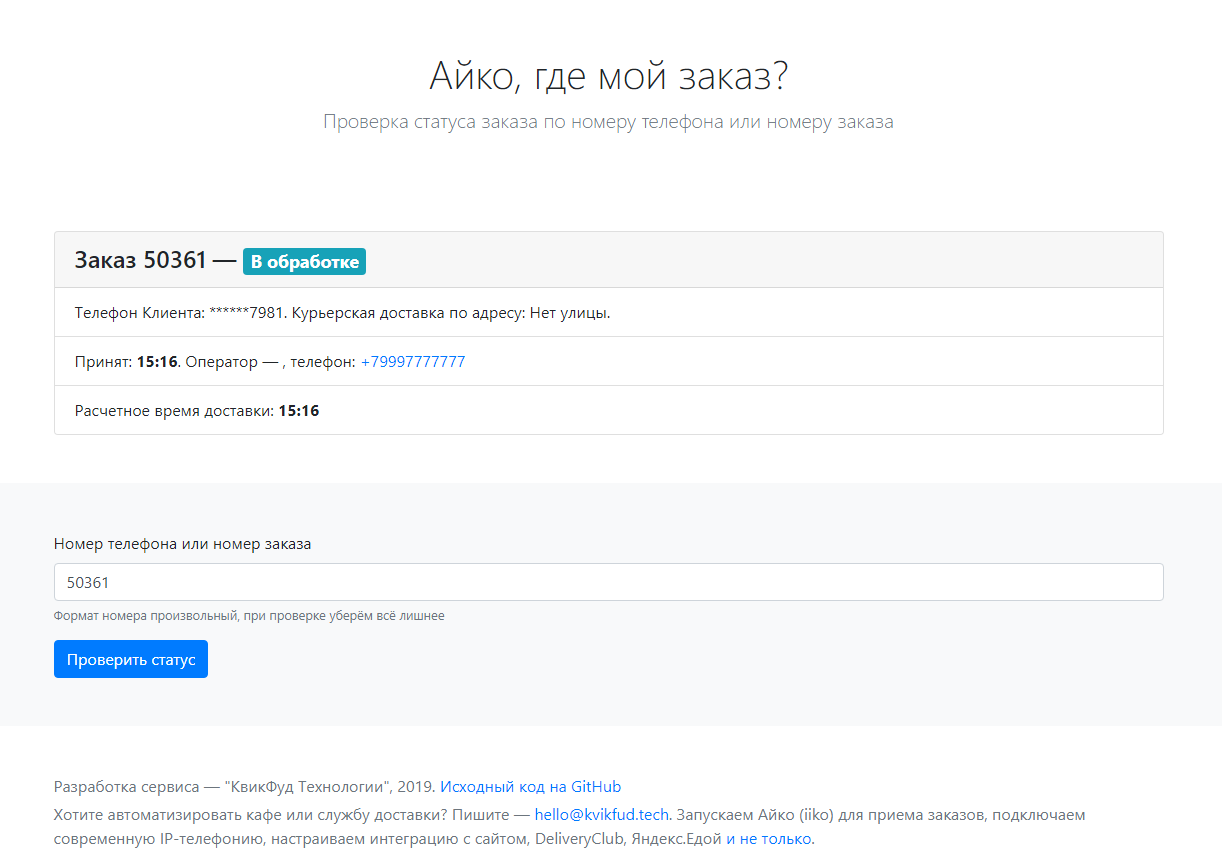
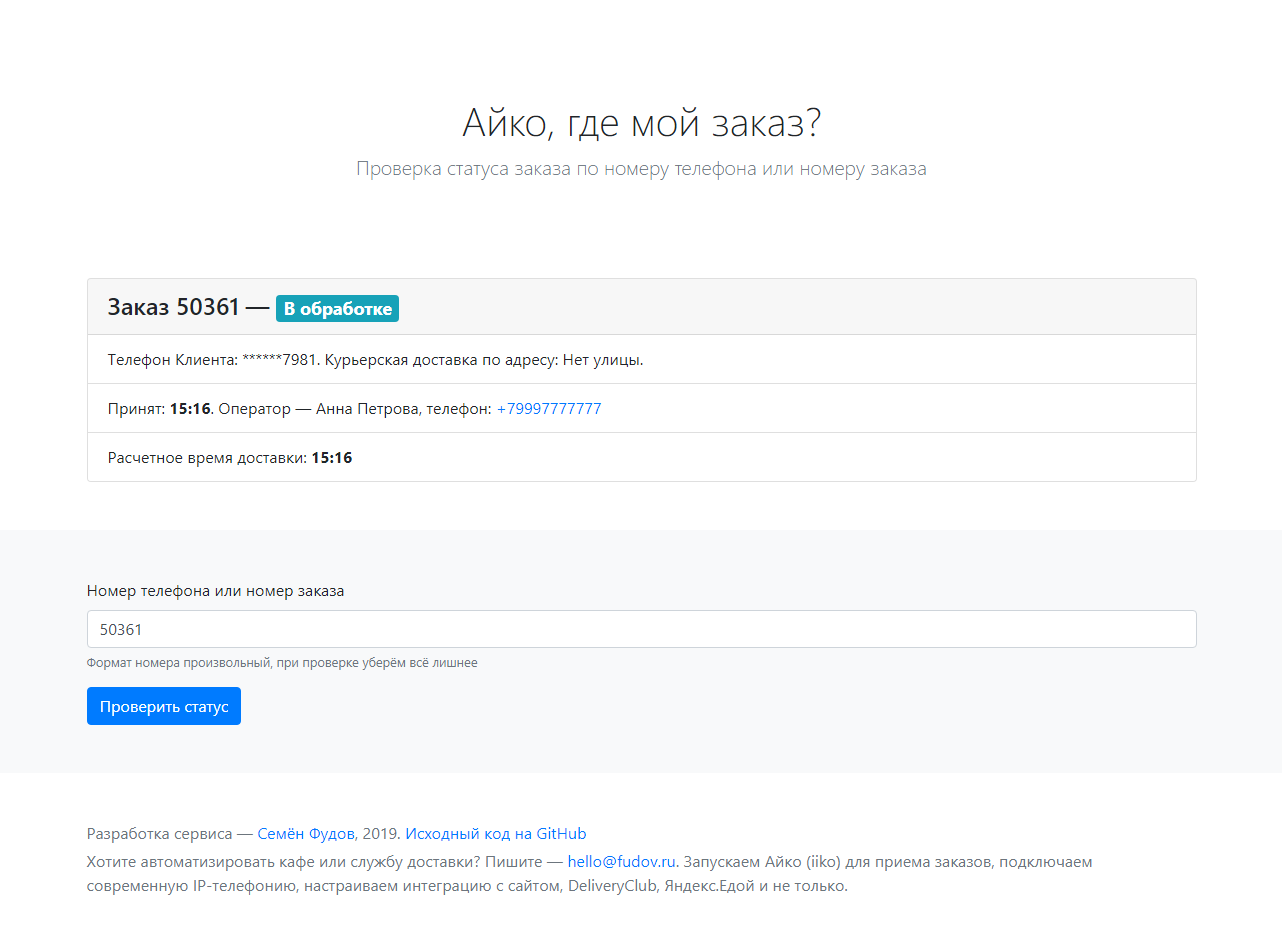
Migrate to fudov.ru

diff --git a/iikoStatus/iikostatus.php b/iikoStatus/iikostatus.php
@@ -2,7 +2,7 @@
   /*
    * Проверка статуса заказа Айко по номеру телефона клиента или по номеру заказа
    *
-   * Пример разработан в "КвикФуд Технологиях": https://kvikfud.tech/
+   * Пример разработан Семёном Фудовым: https://fudov.ru/
    *
    * Больше подробностей в документации:
    * iikoBiz API: https://docs.google.com/document/d/1pRQNIn46GH1LVqzBUY5TdIIUuSCOl-A_xeCBbogd2bE/
@@ -180,7 +180,7 @@
             'К сожалению, <strong>не удалось найти ни одного заказа</strong> по указанному номеру.</p>' .
             '<p class="card-text">Если мы ошиблись&nbsp;&mdash; просим созвониться с оператором по телефону ' .
             '<nobr><a href="tel:+79997777777">+7 (999) 777-77-77</a></nobr>.' . 
-            '<p class="card-text">Иначе предлагаем оформить новый заказ <a href="https://kvikfud.tech">здесь</a>!</p>' . 
+            '<p class="card-text">Иначе предлагаем оформить новый заказ <a href="https://fudov.ru">здесь</a>!</p>' . 
             '</div></div>';
           }
         ?>
@@ -204,8 +204,8 @@
     
     <footer class="text-muted">
       <div class="container">
-        <p>Разработка сервиса&nbsp;&mdash; &quot;КвикФуд Технологии&quot;, 2019. <a href="https://github.com/fisher85/iiko-api/tree/master/iikoStatus">Исходный код на GitHub</a></p>
-        <p>Хотите автоматизировать кафе или службу доставки? Пишите&nbsp;&mdash; <a href="mailto:hello@kvikfud.tech">hello@kvikfud.tech</a>. Запускаем Айко (iiko) для приема заказов, подключаем современную IP-телефонию, настраиваем интеграцию с сайтом, DeliveryClub, Яндекс.Едой <a href="https://kvikfud.tech">и не только</a>.</p>
+        <p>Разработка сервиса&nbsp;&mdash; <a href="https://fudov.ru">Семён Фудов</a>, 2019. <a href="https://github.com/fisher85/iiko-api/tree/master/iikoStatus">Исходный код на GitHub</a></p>
+        <p>Хотите автоматизировать кафе или службу доставки? Пишите&nbsp;&mdash; <a href="mailto:hello@fudov.ru">hello@fudov.ru</a>. Запускаем Айко (iiko) для приема заказов, подключаем современную IP-телефонию, настраиваем интеграцию с сайтом, DeliveryClub, Яндекс.Едой и не только.</p>
       </div>
     </footer>
     

diff --git a/iikoBoard/iikoboard.php b/iikoBoard/iikoboard.php
@@ -2,7 +2,7 @@
   /*
    * Монитор загрузки производств
    *
-   * Пример разработан в "КвикФуд Технологиях": https://kvikfud.tech/
+   * Пример разработан Семёном Фудовым: https://fudov.ru/
    *
    * Больше подробностей в документации:
    * iikoBiz API: https://docs.google.com/document/d/1pRQNIn46GH1LVqzBUY5TdIIUuSCOl-A_xeCBbogd2bE/

diff --git a/iikoMenu/iikomenu.php b/iikoMenu/iikomenu.php
@@ -2,7 +2,7 @@
   /*
    * Выгрузка меню ресторана
    *
-   * Пример разработан в "КвикФуд Технологиях": https://kvikfud.tech/
+   * Пример разработан Семёном Фудовым: https://fudov.ru/
    *
    * Больше подробностей в документации:
    * iikoBiz API: https://docs.google.com/document/d/1pRQNIn46GH1LVqzBUY5TdIIUuSCOl-A_xeCBbogd2bE/

diff --git a/README.md b/README.md
@@ -24,6 +24,6 @@
 
 ## Авторы
 
-Пример разработан в "КвикФуд Технологиях" https://kvikfud.tech.
+Пример разработан Семёном Фудовым https://fudov.ru.
 
 Хабр: [Как мы делаем доставку еды на Айко](https://habr.com/ru/post/481450/)

diff --git a/iikoBoard/README.md b/iikoBoard/README.md
@@ -20,4 +20,4 @@
 
 ## Авторы
 
-Пример разработан в "КвикФуд Технологиях" https://kvikfud.tech.
+Пример разработан Семёном Фудовым https://fudov.ru.

diff --git a/iikoMenu/README.md b/iikoMenu/README.md
@@ -15,4 +15,4 @@
 
 ## Авторы
 
-Пример разработан в "КвикФуд Технологиях" https://kvikfud.tech.
+Пример разработан Семёном Фудовым https://fudov.ru.

diff --git a/iikoStatus/README.md b/iikoStatus/README.md
@@ -19,4 +19,4 @@
 
 ## Авторы
 
-Пример разработан в "КвикФуд Технологиях" https://kvikfud.tech.
+Пример разработан Семёном Фудовым https://fudov.ru.

diff --git a/RF_Sales_Analysis/README.md b/RF_Sales_Analysis/README.md
@@ -8,4 +8,4 @@
 
 ## Авторы
 
-Пример разработан в "КвикФуд Технологиях" https://kvikfud.tech.
+Пример разработан Семёном Фудовым https://fudov.ru.
